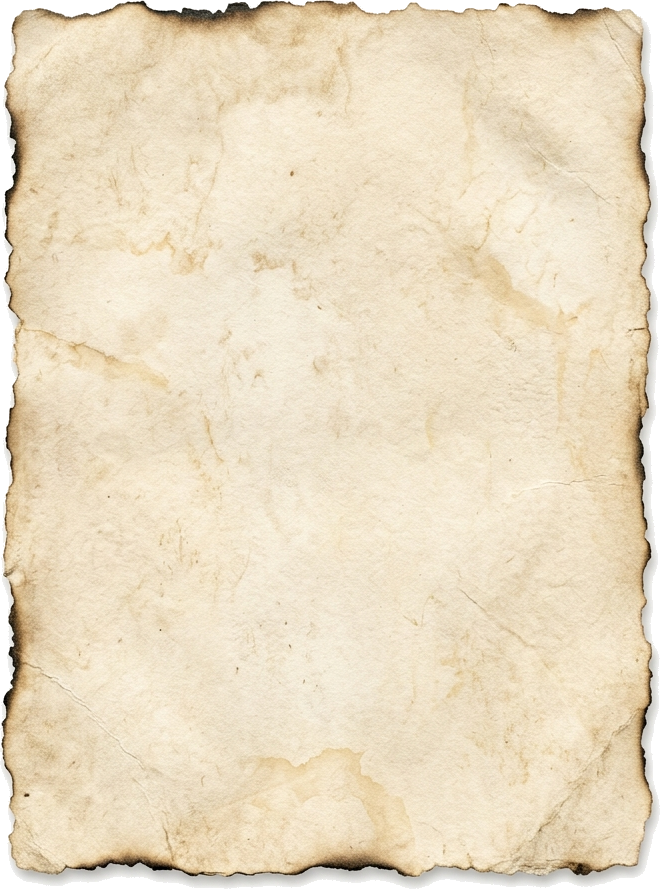
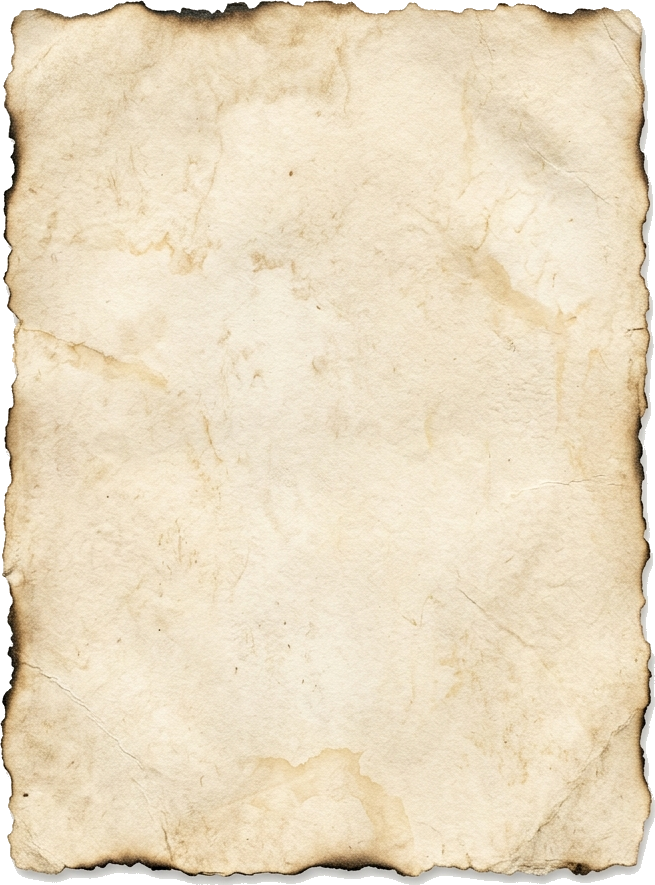
style: optimize parchment background cutout threshold to clear original shadow

diff --git a/process_parchment_crop.py b/process_parchment_crop.py
@@ -4,11 +4,13 @@ def make_parchment_transparent_and_crop(input_path, output_path):
     img = Image.open(input_path).convert("RGBA")
     width, height = img.size
     
-    # Floodfill from corners to make the outer white area transparent
-    ImageDraw.floodfill(img, (0, 0), (0, 0, 0, 0), thresh=35)
-    ImageDraw.floodfill(img, (width - 1, 0), (0, 0, 0, 0), thresh=35)
-    ImageDraw.floodfill(img, (0, height - 1), (0, 0, 0, 0), thresh=35)
-    ImageDraw.floodfill(img, (width - 1, height - 1), (0, 0, 0, 0), thresh=35)
+    # Floodfill from corners to make the outer white area and soft shadow transparent.
+    # We use a high threshold of 90 to completely clean the soft gray shadow in the image,
+    # stopping at the dark burnt deckled paper edges.
+    ImageDraw.floodfill(img, (0, 0), (0, 0, 0, 0), thresh=90)
+    ImageDraw.floodfill(img, (width - 1, 0), (0, 0, 0, 0), thresh=90)
+    ImageDraw.floodfill(img, (0, height - 1), (0, 0, 0, 0), thresh=90)
+    ImageDraw.floodfill(img, (width - 1, height - 1), (0, 0, 0, 0), thresh=90)
     
     # Find the bounding box of non-transparent pixels (alpha > 0)
     bbox = img.getbbox()
